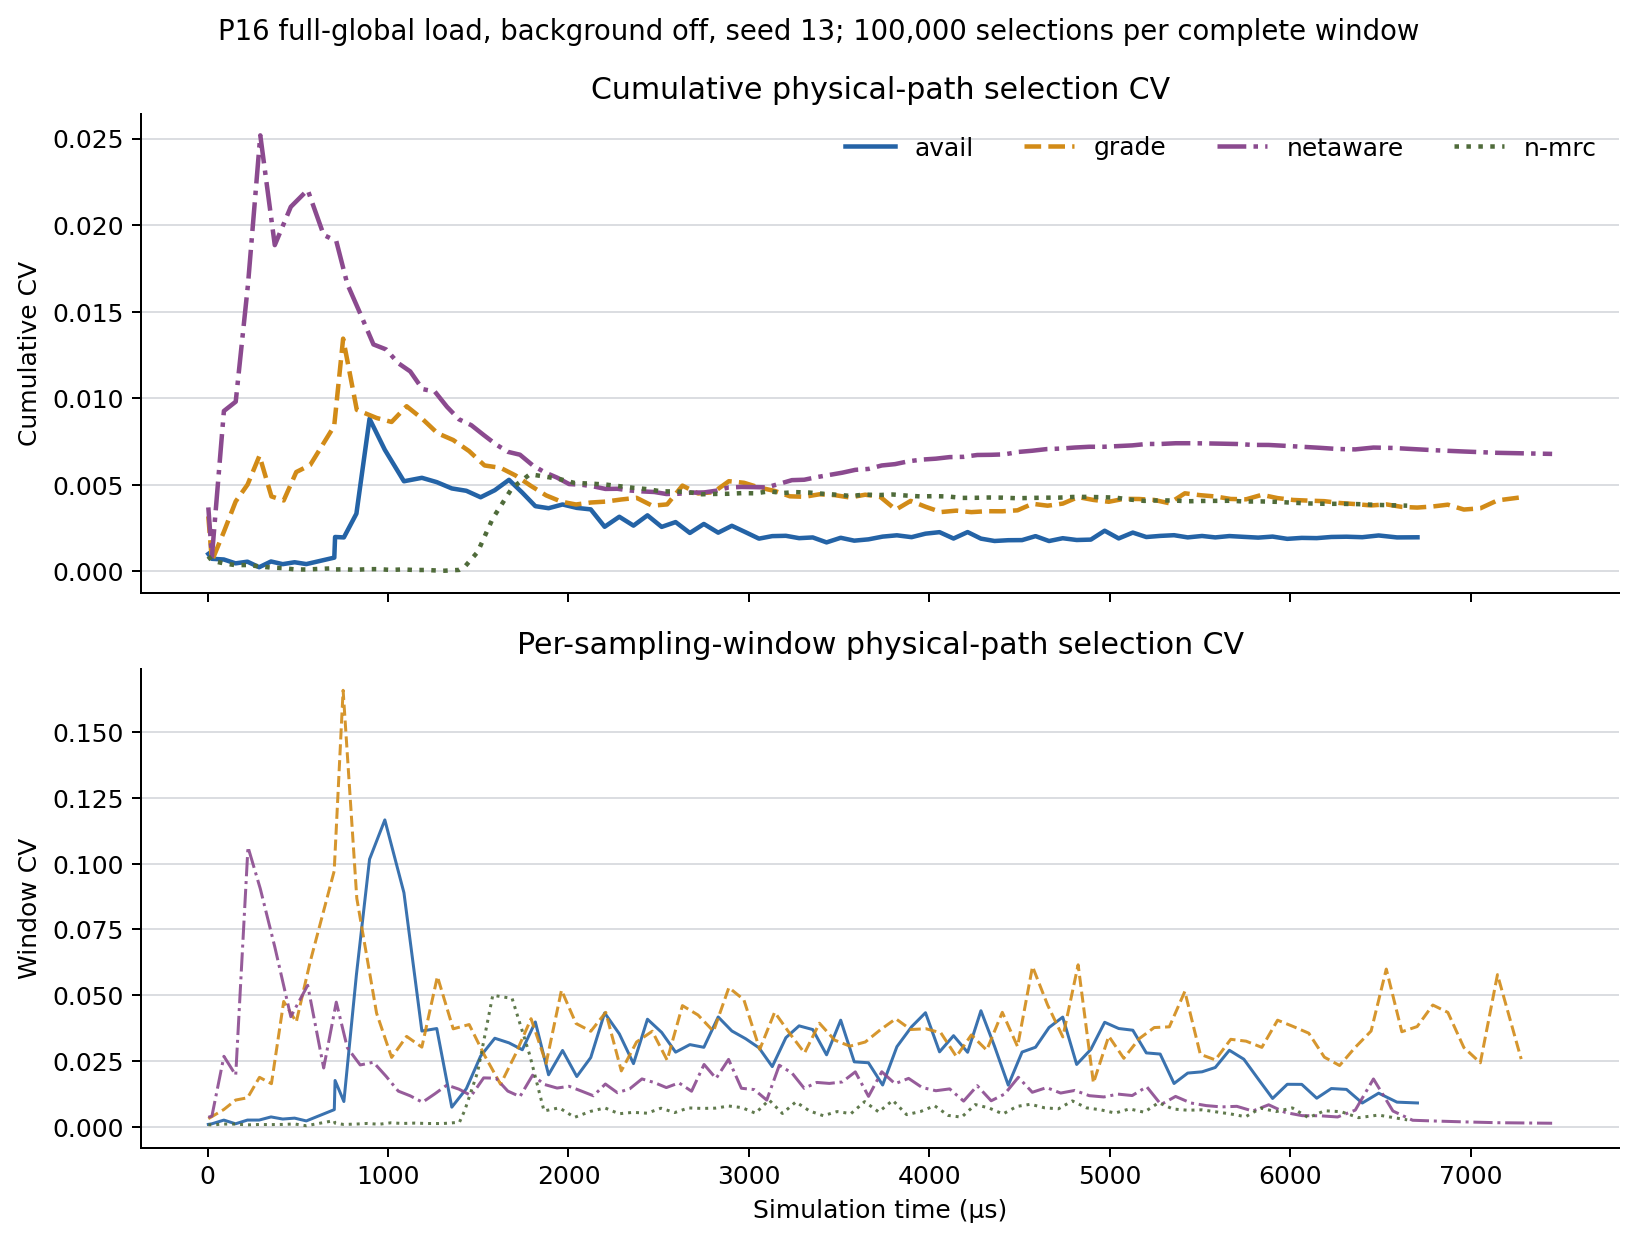
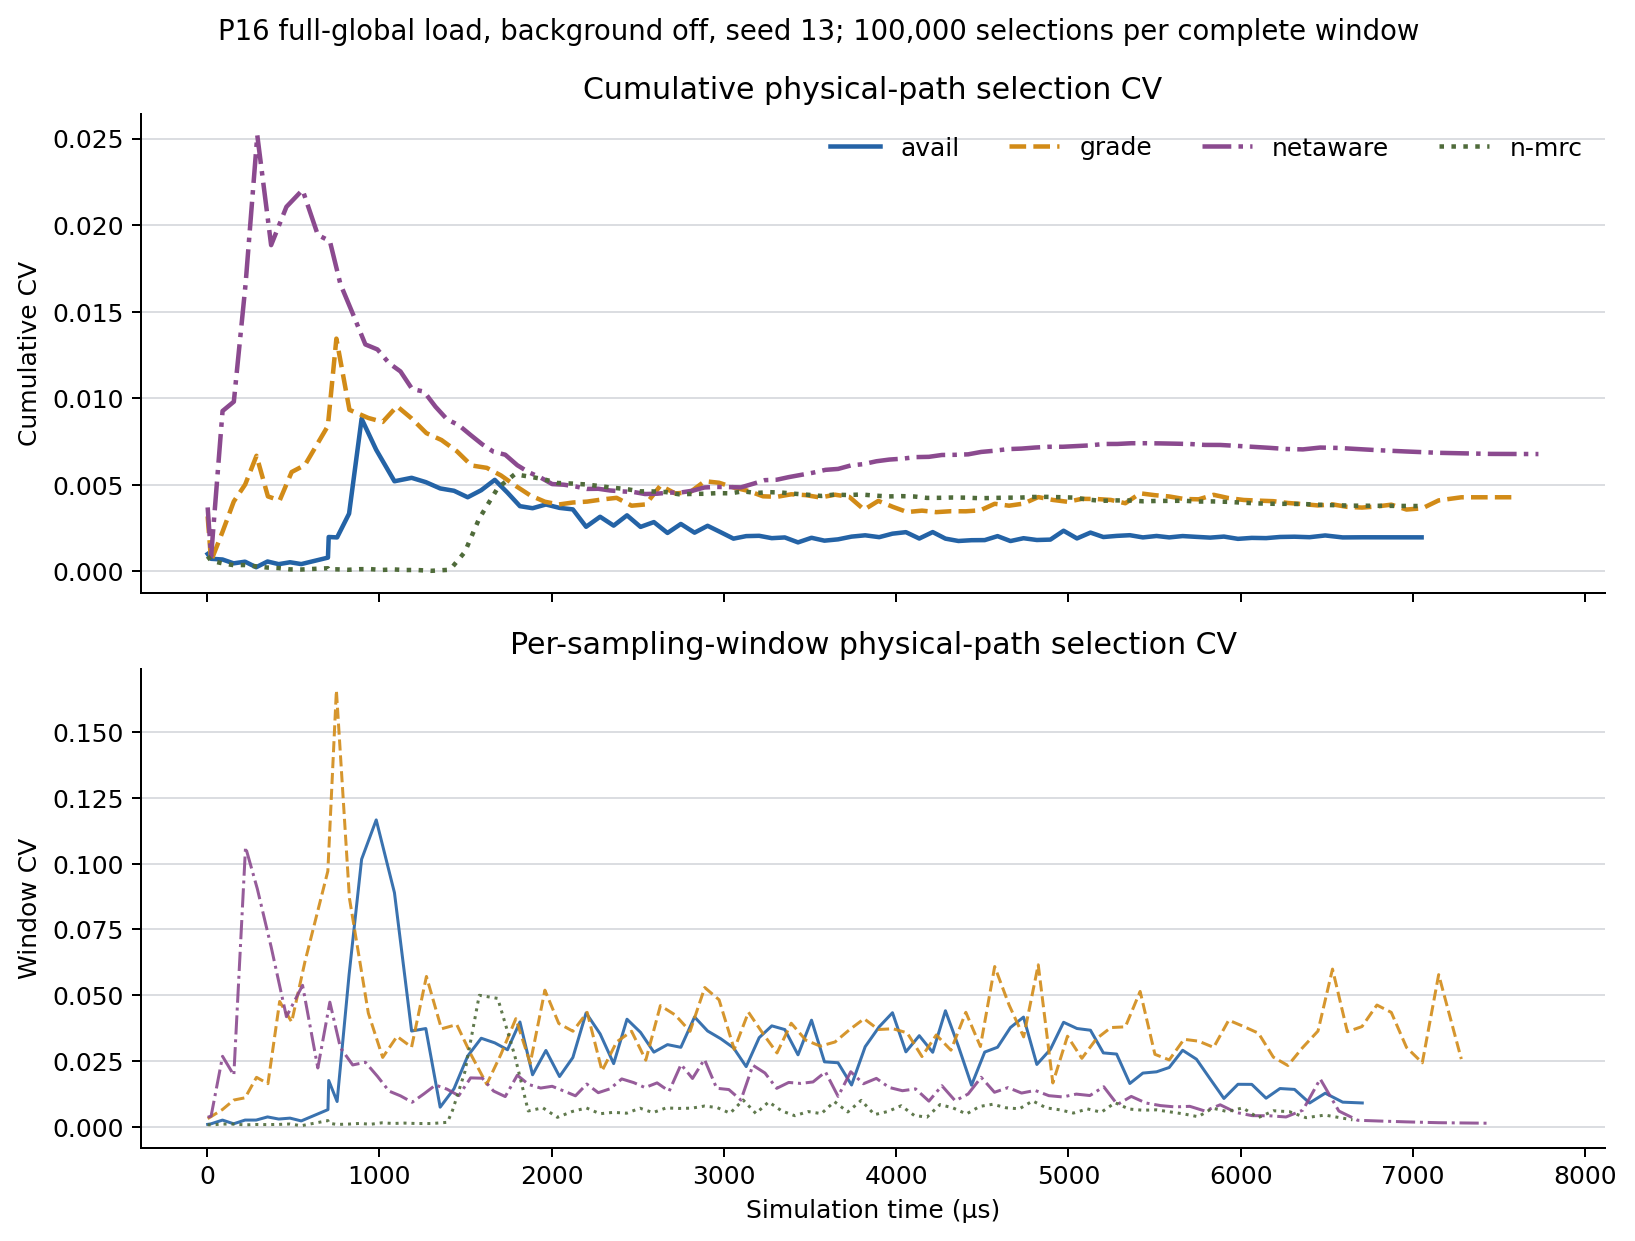
fix: retain final cumulative path snapshots

diff --git a/experiments/n-mrc/analyze_four_scheme_path_cv.py b/experiments/n-mrc/analyze_four_scheme_path_cv.py
@@ -115,17 +115,16 @@ def plot_rows(rows, path, window_selections):
             row for row in selected
             if is_complete_window(row, window_selections)
         ]
-        x = [row["time_us"] for row in complete_windows]
         axes[0].plot(
-            x,
-            [row["cumulative_cv"] for row in complete_windows],
+            [row["time_us"] for row in selected],
+            [row["cumulative_cv"] for row in selected],
             label=SCHEME_LABELS[scheme],
             color=colors[scheme],
             linestyle=styles[scheme],
             linewidth=1.8,
         )
         axes[1].plot(
-            x,
+            [row["time_us"] for row in complete_windows],
             [row["window_cv"] for row in complete_windows],
             label=SCHEME_LABELS[scheme],
             color=colors[scheme],

diff --git a/experiments/n-mrc/four_scheme_risks_and_evidence.md b/experiments/n-mrc/four_scheme_risks_and_evidence.md
@@ -168,7 +168,7 @@ P16 中关闭自适应相对默认 GoodCap：
 
 ### 路径均衡方面的边界
 
-netaware 的最终累计 CV 最高，为 0.00677；但窗口 CV 均值只有 0.01726，低于 avail 和 grade。这表示它形成了较稳定的累计偏置，而不是一直剧烈摆动。
+netaware 的最终累计 CV 最高，为 0.00677；但完整窗口 CV 均值只有 0.01712，低于 avail 和 grade。这表示它形成了较稳定的累计偏置，而不是一直剧烈摆动。
 
 如果偏置指向持续健康路径，这是优势；如果快照已经过时或所有路径同样拥塞，这种偏置就可能成为负担。
 
